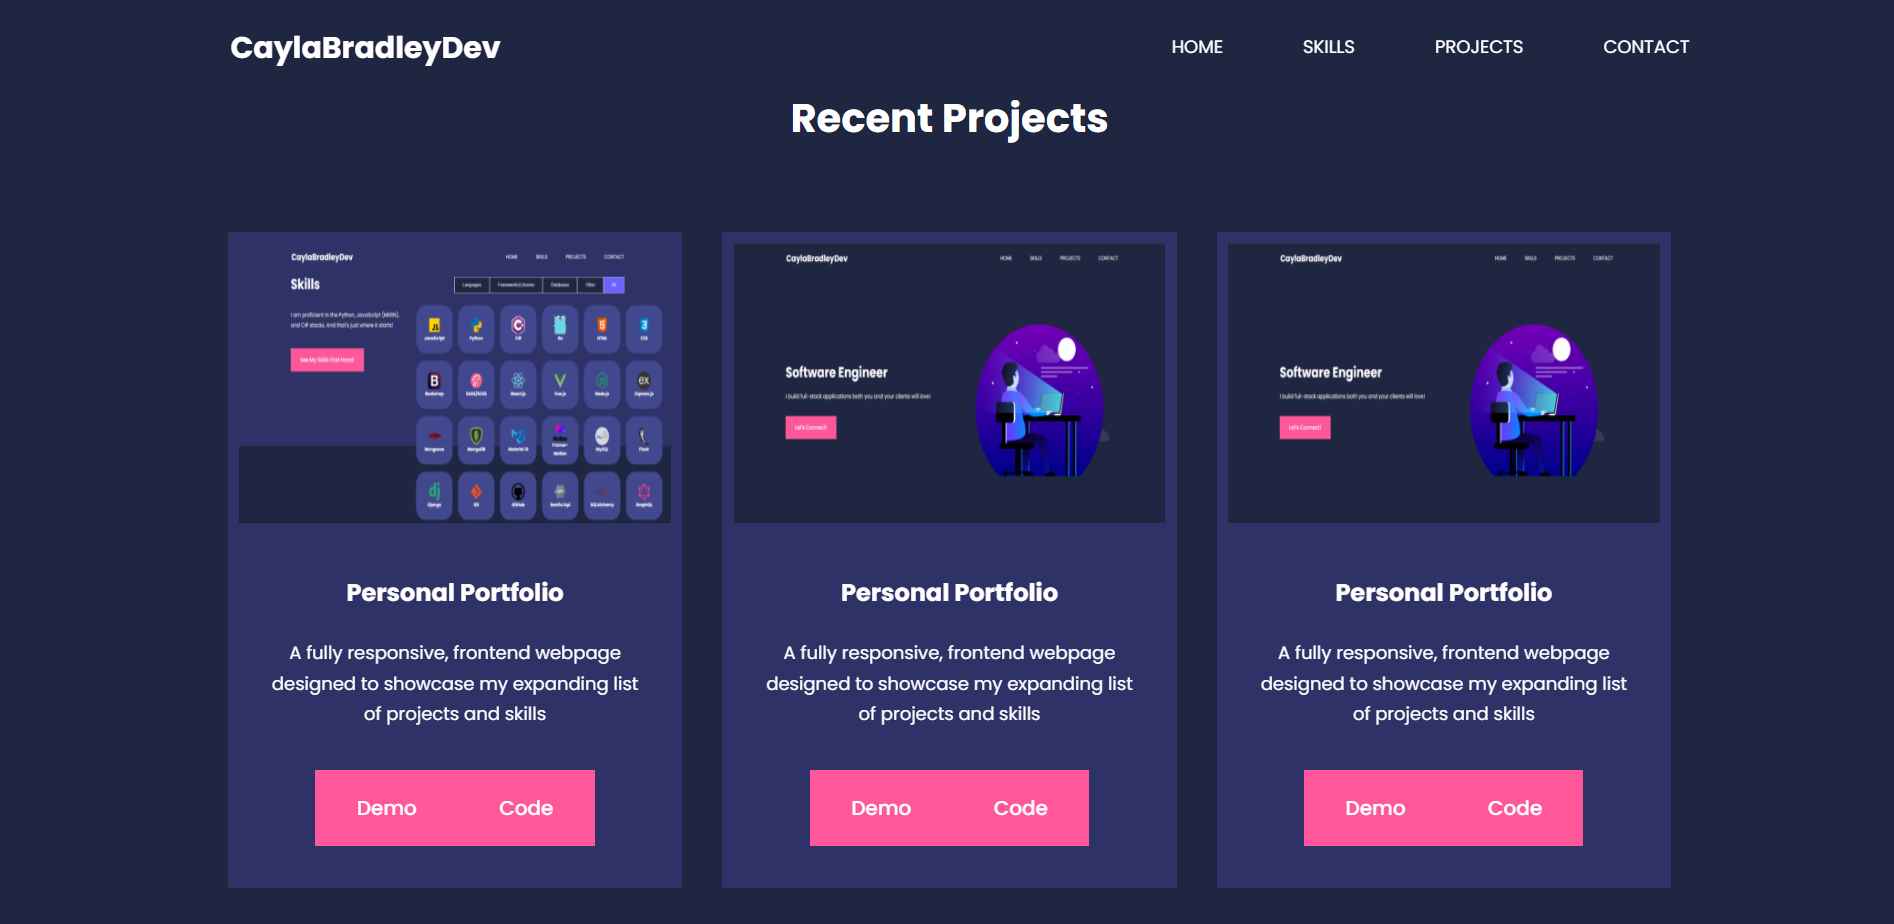
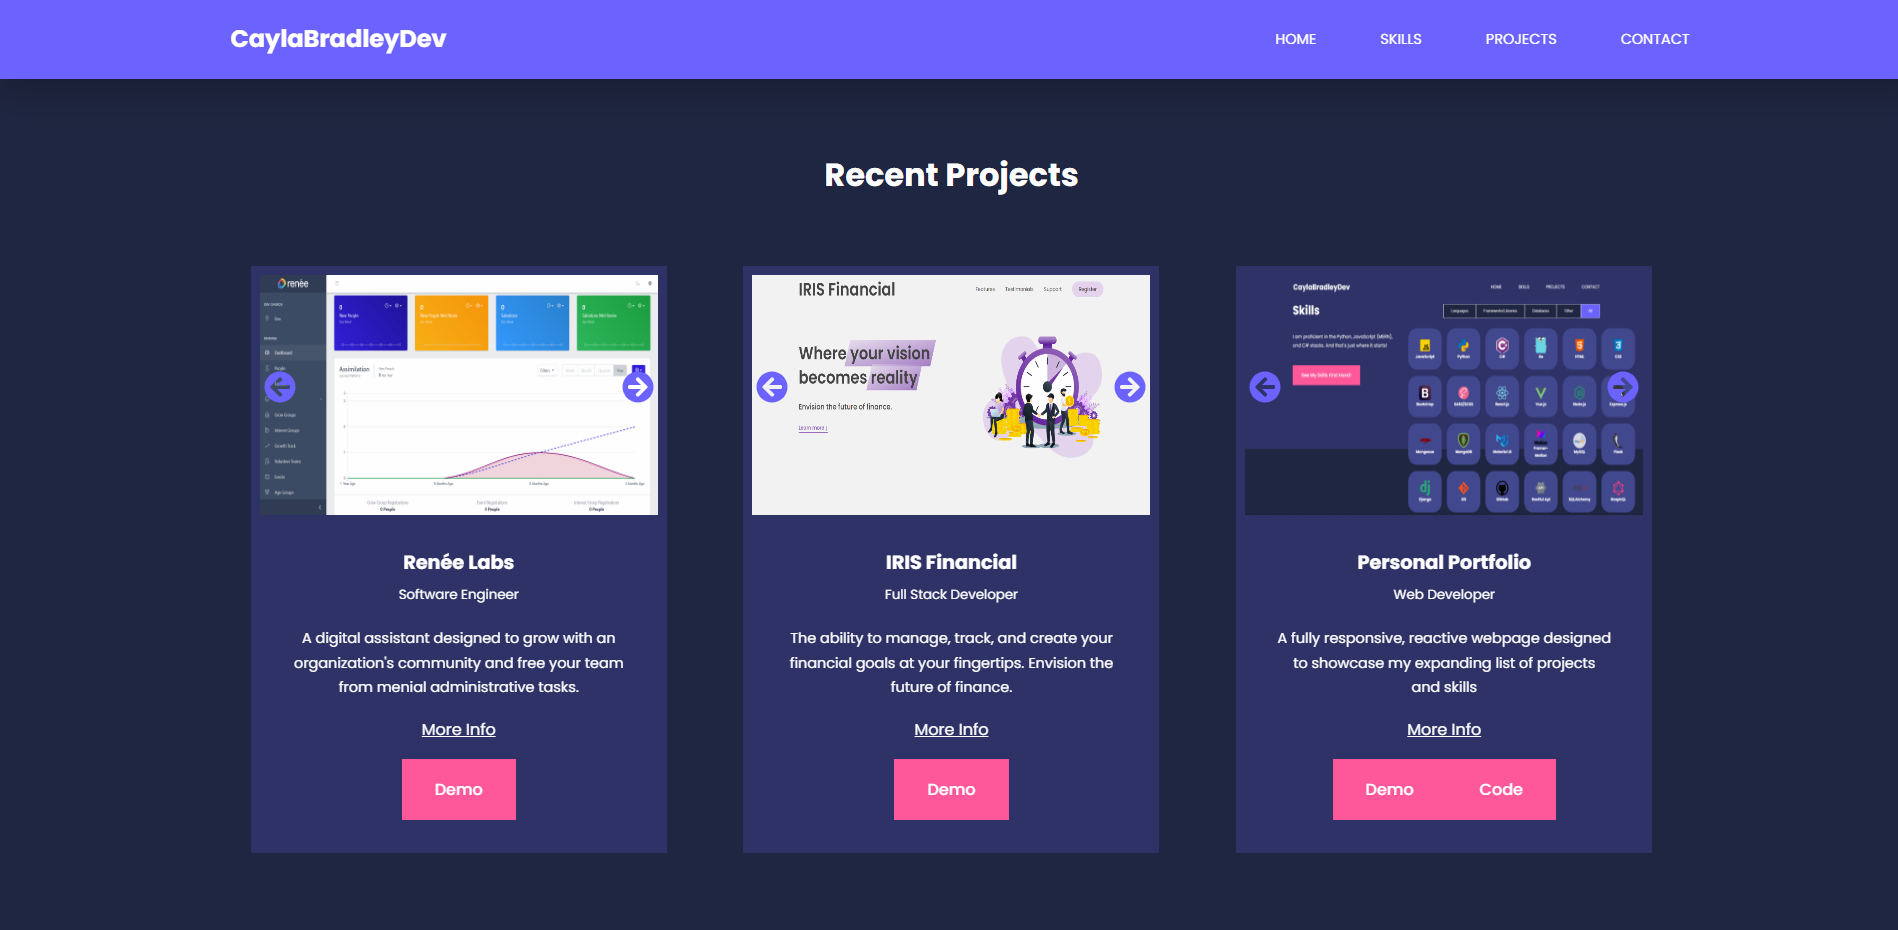
add IRIS Financial Project

diff --git a/client/src/constants/projectsData.js b/client/src/constants/projectsData.js
@@ -7,34 +7,35 @@ const projectsData = () => {
                 title: 'Renée Labs',
                 role: 'Software Engineer',
                 images: [images.renee, images.renee1, images.renee2,] , 
-                summary: "A digital assistant designed to grow with an organization's community and free your team from menial administrative tasks.",
+                summary: "A digital assistant designed to grow with your organization's community and free your team from menial administrative tasks.",
                 jobDescription: [
                     'Conducted a mobile audit and frontend overhaul of the admin console, introducing an improved cross-platform, mobile-responsive experience',
                     'Collaborated with design and backend engineer teams to implement new features and improve existing functionality using Vue.js, the CoreUI Library, and Go',
                 ],
-                technologies: ['Go', 'JavaScript', 'Vue.js','CoreUi', 'CSS'],
+                technologies: ['Go', 'Vue.js','JavaScript', 'Docker', 'CoreUI', 'DataTables API', 'CSS'],
                 demoUrl: 'https://www.myrenee.io/',
                 codeUrl: "",
                 classified: true,
             },
             {
-                title: 'Personal Portfolio',
-                role: 'Software Engineer',
-                images: [images.personalPortfolio, images.personalPortfolio1, images.personalPortfolio2] , 
-                summary: 'A fully responsive, reactive webpage designed to showcase my expanding list of projects and skills',
+                title: 'IRIS Financial',
+                role: 'Full Stack Developer',
+                images: [images.irisFinancial], 
+                summary: 'The ability to manage, track, and create your financial goals at your fingertips. Envision the future of finance.',
                 jobDescription: [
-                    'Built rich visual and reusable components with the React.js framework and its related react hooks, such as useState and useEffect, to produce a scalable, single-page application',
-                    'Utilized best practices in code organization, BEM naming conventions, Higher Order Components, to write clean, efficient, maintainable, and scalable code',
-                    'Designed a visually stimulating and dynamic UI/UX through the Framer Motion API and SCSS preprocessor',
+                    'Created web service components with React.js and the Plaid API to facilitate secure financial data management and analysis, interacting with UI Interfaces using MongoDB, Express.js, and Node.js.',
+                    'Developed and deployed a new feature that allows users to securely import transaction data from external bank accounts through the Plaid API.',
+                    'Designed visually appealing and dynamic user interfaces by utilizing SCSS for design aspects and Framer-Motion for smooth and intuitive animations.',
+                    'Worked on server-side Node.js and Express.js and connected to the MongoDB database through Mongoose',
                 ],
-                technologies: ['JavaScript', 'React.js', 'Framer-Motion', 'SCSS',  'React-Icons', 'formspree'],
-                demoUrl: '#',
-                codeUrl: "https://github.com/caynoelani/react-portfolio",
-                classified: false,
+                technologies: ['JavaScript', 'React.js', 'Node.js', 'MongoDB', 'Mongoose', 'Express.js', 'Plaid API', 'SCSS', 'Framer-Motion', 'React-Icons'],
+                demoUrl: '#projects',
+                codeUrl: "#",
+                classified: true,
             },
             {
                 title: 'Personal Portfolio',
-                role: 'Software Engineer',
+                role: 'Web Developer',
                 images: [images.personalPortfolio, images.personalPortfolio1, images.personalPortfolio2] , 
                 summary: 'A fully responsive, reactive webpage designed to showcase my expanding list of projects and skills',
                 jobDescription: [
@@ -42,8 +43,8 @@ const projectsData = () => {
                     'Utilized best practices in code organization, BEM naming conventions, Higher Order Components, to write clean, efficient, maintainable, and scalable code',
                     'Designed a visually stimulating and dynamic UI/UX through the Framer Motion API and SCSS preprocessor',
                 ],
-                technologies: ['JavaScript', 'React.js', 'Framer-Motion', 'SCSS',  'React-Icons', 'formspree'],
-                demoUrl: '#',
+                technologies: ['JavaScript', 'React.js', 'SCSS', 'Framer-Motion', 'React-Icons', 'formspree.io'],
+                demoUrl: '#projects',
                 codeUrl: "https://github.com/caynoelani/react-portfolio",
                 classified: false,
             },

diff --git a/client/src/constants/images.js b/client/src/constants/images.js
@@ -17,6 +17,7 @@ import github from '../assets/images/github.png';
 import go from '../assets/images/go.png';
 import graphql from '../assets/images/graphql.png';
 import html from '../assets/images/html.png';
+import irisFinancial from '../assets/images/iris-financial.png';
 import javascript from '../assets/images/javascript.png';
 import developer from '../assets/images/man-developing-website-on-desk.svg';
 import materialUI from '../assets/images/mui.png'
@@ -67,6 +68,7 @@ export default {
     go,
     graphql,
     html,
+    irisFinancial,
     javascript,
     developer,
     mongo,

diff --git a/client/src/container/Projects/Projects.scss b/client/src/container/Projects/Projects.scss
@@ -8,6 +8,6 @@
         grid-template-columns: repeat(3, 1fr);
         gap: 2rem;
         align-items: center;
-        justify-content: center;
+        justify-items: center;
     }
 }
